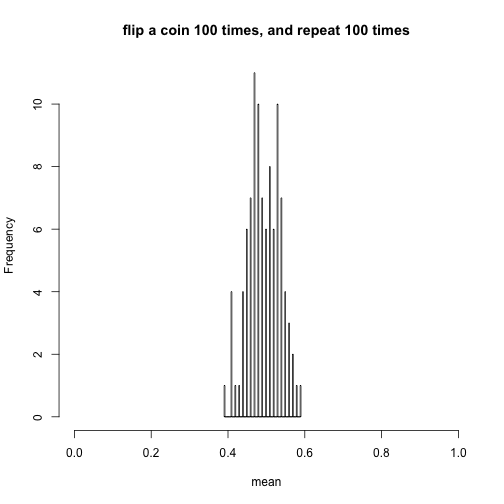
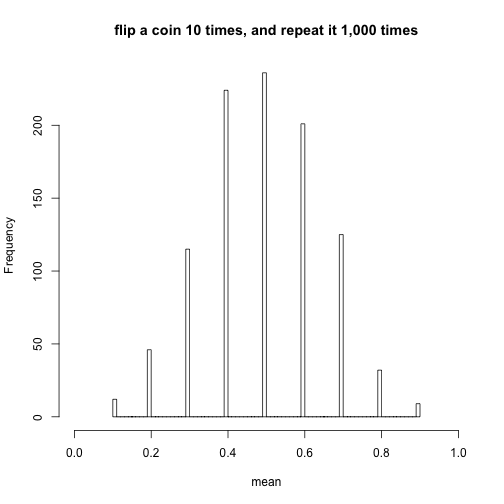
session2

diff --git a/Statistics2016/Session2_hypothesis_testing.md b/Statistics2016/Session2_hypothesis_testing.md
@@ -37,9 +37,9 @@ If we flip a fair coin 10 times, what is the mean of this experiment?
 ```r
 # always do set.seed() before the random sampling
 set.seed(123)
-# number, size and probability
-N=10; n=1; p=0.5
-test1<-rbinom(N,n,p)
+# observation number, number of trials and probability of success on each trial
+sample.size=10;
+test1<-rbinom(sample.size,1,0.5)
 test1
 ```
 
@@ -59,7 +59,7 @@ showmean
 If we flip a fair coin 10 times ***again***, what is the mean of this experiment?
 
 ```r
-test2<-rbinom(N,n,p)
+test2<-rbinom(sample.size,1,0.5)
 showmean2<-mean(test2)
 showmean2
 ```
@@ -76,9 +76,9 @@ If we flip a fair coin 10 times, what is the mean of this experiment?
 ```r
 # always do set.seed() before the random sampling
 set.seed(123)
-# number, size and probability
-N=10; n=1; p=0.5
-test1<-rbinom(N,n,p)
+# observation number, number of trials and probability of success on each trial
+sample.size=10;
+test1<-rbinom(sample.size,1,0.5)
 test1
 ```
 
@@ -98,7 +98,7 @@ showmean
 If we flip a fair coin 10 times ***again***, what is the mean of this experiment?
 
 ```r
-test2<-rbinom(N,n,p)
+test2<-rbinom(sample.size,1,0.5)
 showmean2<-mean(test2)
 showmean2
 ```
@@ -110,31 +110,31 @@ showmean2
 
 SD and SE - sampling distribution for the mean (4/)
 ========================================================
-What will happen if we repeat this experiment 100 times, rather than only 2 times
+What will happen if we repeat this experiment 10 times, rather than only 2 times
 
 ```r
 set.seed(123)
-no.experiment=100
+no.experiment=10
 mat4plot<-matrix(nrow=no.experiment,ncol=2)
 mat4plot[,2]<-1
-N<-10
+sample.size<-10
 for (i in 1:no.experiment){
-  mat4plot[i,1]<-mean(rbinom(N,1,0.5))
+  mat4plot[i,1]<-mean(rbinom(sample.size,1,0.5))
 }
-hist(mat4plot[,1],xlim=c(0,1),breaks=100,xlab="mean",main="flip a coin 10 times, and repeat 100 times")
+hist(mat4plot[,1],xlim=c(0,1),breaks=100,xlab="mean",main="flip a coin 10 times, and it repeat 100 times")
 ```
 
 ![plot of chunk unnamed-chunk-6](Session2_hypothesis_testing-figure/unnamed-chunk-6-1.png)
 
 
-SD and SE - sampling distribution for the mean (5/)
+SD and SE - Central Limited Theory (5/)
 ========================================================
 
 Flip a coin for 10 times, and repeat it for 100 times
 
 ![plot of chunk unnamed-chunk-7](Session2_hypothesis_testing-figure/unnamed-chunk-7-1.png)
 ***
-Flip a coin for 100 times, and repeat it for 100 times
+Flip a coin for 10 times, and repeat it for 1,000 times
 
 ![plot of chunk unnamed-chunk-8](Session2_hypothesis_testing-figure/unnamed-chunk-8-1.png)
 
